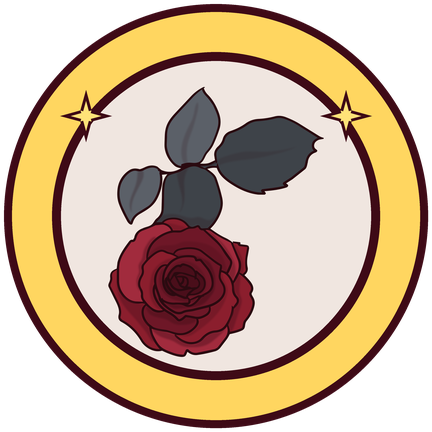
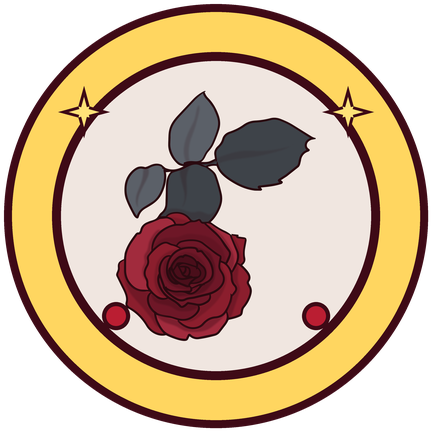
Added sub badges

diff --git a/index.html b/index.html
@@ -7279,14 +7279,14 @@
       <a class="proj-btn" href="images/twitch-large/Badges/3month_72.png?v=90453e1d" target="_blank" rel="noopener" title="Twitch subscriber badge: 3 month">3 month</a>
       <a class="proj-btn" href="images/twitch-large/Badges/6month_72.png?v=a659d23a" target="_blank" rel="noopener" title="Twitch subscriber badge: 6 month">6 month</a>
       <a class="proj-btn" href="images/twitch-large/Badges/9month_72.png?v=4efb4e4f" target="_blank" rel="noopener" title="Twitch subscriber badge: 9 month">9 month</a>
-      <a class="proj-btn" href="images/twitch-large/Badges/1year_72.png?v=2de9e34e" target="_blank" rel="noopener" title="Twitch subscriber badge: 1 year">1 year</a>
-      <a class="proj-btn" href="images/twitch-large/Badges/1_5year_72.png?v=710c4e77" target="_blank" rel="noopener" title="Twitch subscriber badge: 1.5 year">1.5 year</a>
-      <a class="proj-btn" href="images/twitch-large/Badges/2year_72.png?v=8b18ea16" target="_blank" rel="noopener" title="Twitch subscriber badge: 2 year">2 year</a>
-      <a class="proj-btn" href="images/twitch-large/Badges/2_5year_72.png?v=7e517fcf" target="_blank" rel="noopener" title="Twitch subscriber badge: 2.5 year">2.5 year</a>
-      <a class="proj-btn" href="images/twitch-large/Badges/3year_72.png?v=7e517fcf" target="_blank" rel="noopener" title="Twitch subscriber badge: 3 year">3 year</a>
-      <a class="proj-btn" href="images/twitch-large/Badges/3_5year_72.png?v=4bd7d765" target="_blank" rel="noopener" title="Twitch subscriber badge: 3.5 year">3.5 year</a>
-      <a class="proj-btn" href="images/twitch-large/Badges/4year_72.png?v=39db344e" target="_blank" rel="noopener" title="Twitch subscriber badge: 4 year">4 year</a>
-      <a class="proj-btn" href="images/twitch-large/Badges/4_5year_72.png?v=39db344e" target="_blank" rel="noopener" title="Twitch subscriber badge: 4.5 year">4.5 year</a>
+      <a class="proj-btn" href="images/twitch-large/Badges/1year_72.png?v=3b2a9f79" target="_blank" rel="noopener" title="Twitch subscriber badge: 1 year">1 year</a>
+      <a class="proj-btn" href="images/twitch-large/Badges/1_5year_72.png?v=783e5558" target="_blank" rel="noopener" title="Twitch subscriber badge: 1.5 year">1.5 year</a>
+      <a class="proj-btn" href="images/twitch-large/Badges/2year_72.png?v=5f1e709b" target="_blank" rel="noopener" title="Twitch subscriber badge: 2 year">2 year</a>
+      <a class="proj-btn" href="images/twitch-large/Badges/2_5year_72.png?v=601a190e" target="_blank" rel="noopener" title="Twitch subscriber badge: 2.5 year">2.5 year</a>
+      <a class="proj-btn" href="images/twitch-large/Badges/3year_72.png?v=49b10e52" target="_blank" rel="noopener" title="Twitch subscriber badge: 3 year">3 year</a>
+      <a class="proj-btn" href="images/twitch-large/Badges/3_5year_72.png?v=6ee8eb07" target="_blank" rel="noopener" title="Twitch subscriber badge: 3.5 year">3.5 year</a>
+      <a class="proj-btn" href="images/twitch-large/Badges/4year_72.png?v=146f831a" target="_blank" rel="noopener" title="Twitch subscriber badge: 4 year">4 year</a>
+      <a class="proj-btn" href="images/twitch-large/Badges/4_5year_72.png?v=e78dad4b" target="_blank" rel="noopener" title="Twitch subscriber badge: 4.5 year">4.5 year</a>
       <a class="proj-btn" href="images/twitch/Floral/Badges/1year_432.png?v=3aa7a4ef" target="_blank" rel="noopener" title="Twitch subscriber badge: Floral 1 year">Floral 1 year</a>
       <a class="proj-btn" href="images/twitch/Floral/Badges/2year_432.png?v=bce54367" target="_blank" rel="noopener" title="Twitch subscriber badge: Floral 2 year">Floral 2 year</a>
       <a class="proj-btn" href="images/twitch/Floral/Badges/3month_432.png?v=08fdd9d3" target="_blank" rel="noopener" title="Twitch subscriber badge: Floral 3 month">Floral 3 month</a>

diff --git a/tools/make_rose.py b/tools/make_rose.py
@@ -157,9 +157,14 @@ def rose(d, S, cx, cy, r, layers=5, leaves=True, pal=None):
     h = 2.5 * r * S if leaves else 2.0 * r * S
     k = h / im.height
     img = im.resize((max(1, round(im.width * k)), max(1, round(im.height * k))), Image.LANCZOS)
-    if pal is not None:   # gold variant for the highest badge
-        tint = Image.new("RGBA", img.size, (255, 214, 96, 255))
-        img = Image.blend(img.convert("RGB"), tint.convert("RGB"), 0.0).convert("RGBA") if False else img
+    if pal is not None:   # gold variant for the highest badge: shift the red hue to gold, grey leaves stay grey
+        hsv = img.convert("RGB").convert("HSV")
+        hh, ss, vv = hsv.split()
+        hh = hh.point(lambda v: (v + 34) % 256 if v < 40 or v > 235 else v)
+        vv = vv.point(lambda v: min(255, int(v * 1.35 + 25)))
+        img = Image.merge("HSV", (hh, ss, vv)).convert("RGB").convert("RGBA")
+        img.putalpha(im.split()[3].resize(img.size))
+
     d._image.alpha_composite(img, (int(cx * S - img.width / 2), int(cy * S - img.height / 2)))
 
 
@@ -204,8 +209,8 @@ def badge(tier, size=432):
         d.ellipse((12 * S, 12 * S, (size - 12) * S, (size - 12) * S), fill=ring_col + (255,))
         d.ellipse((52 * S, 52 * S, (size - 52) * S, (size - 52) * S), fill=INK + (255,))
         d.ellipse((61 * S, 61 * S, (size - 61) * S, (size - 61) * S), fill=(240, 230, 224, 255))
-        if idx >= 8:  # ring dots
-            n = 24
+        if idx >= 8:  # ring dots: more of them on every higher tier
+            n = {8: 12, 9: 16, 10: 20, 11: 24, 12: 30}[idx]
             for i in range(n):
                 a = 2 * math.pi * i / n
                 berry_dot(d, S, c + math.cos(a) * (size / 2 - 32 * k), c + math.sin(a) * (size / 2 - 32 * k), 8 * k)
@@ -227,18 +232,34 @@ def badge(tier, size=432):
             stem(d, S, c, c + 118 * k, c + 6 * k, 9 * k, ls=1.0 * k)
             tulip(d, S, c, c - 6 * k, 96 * k)
         else:
-            if name in ("1_5year",):
-                berry_dot(d, S, c - 108 * k, c + 100 * k, 14 * k); berry_dot(d, S, c + 108 * k, c + 100 * k, 14 * k)
-            r_ = 108 * k
-            if name == "4_5year":
-                rose(d, S, c, c + 6 * k, r_, layers=4, pal=((252, 226, 130), (176, 120, 20)))
-            else:
-                rose(d, S, c, c + 6 * k, r_, layers=4 if idx >= 6 else 3)
-            if name in ("2year", "4year", "4_5year"):
-                sparkle(d, S, c - 130 * k, c - 100 * k, 26 * k); sparkle(d, S, c + 130 * k, c - 100 * k, 26 * k)
-            if name in ("3_5year", "4year", "4_5year"):
-                pts = [(c - 56 * k, c - 118 * k), (c - 56 * k, c - 160 * k), (c - 28 * k, c - 138 * k), (c, c - 172 * k), (c + 28 * k, c - 138 * k), (c + 56 * k, c - 160 * k), (c + 56 * k, c - 118 * k)]
+            r_ = 100 * k
+            ry = c + (10 * k if idx >= 10 else 0)
+            # the rose itself is the same drawing on every year; everything around it grows with the tier
+            if idx >= 11:   # 4 years and up: a red band inside the gold ring
+                d.ellipse((24 * S, 24 * S, (size - 24) * S, (size - 24) * S), outline=RED + (255,), width=int(8 * S * k))
+            rose(d, S, c, ry, r_, layers=4, pal=(1, 2) if idx == 12 else None)
+            if idx >= 6:    # 1.5 years: two berries at the bottom
+                berry_dot(d, S, c - 100 * k, c + 100 * k, 14 * k)
+                berry_dot(d, S, c + 100 * k, c + 100 * k, 14 * k)
+            if idx >= 7:    # 2 years: two sparkles at the top
+                sparkle(d, S, c - 132 * k, c - 104 * k, 26 * k)
+                sparkle(d, S, c + 132 * k, c - 104 * k, 26 * k)
+            if idx >= 9:    # 3 years: a leaf wreath at the bottom
+                for sx in (-1, 1):
+                    for j, ang in enumerate((-35, -10)):
+                        a_ = math.radians(180 + ang if sx < 0 else -ang)
+                        leaf(d, S, c + sx * (60 + 34 * j) * k, c + (138 - 6 * j) * k, 54 * k, 14 * k, a_, fill=SLATE, lw=5)
+            if idx >= 10:   # 3.5 years: a crown (bigger from 4 years)
+                cs = 1.0 if idx == 10 else 1.35
+                pts = [(c - 52 * cs * k, c - 112 * k), (c - 52 * cs * k, c - 112 * k - 40 * cs * k), (c - 26 * cs * k, c - 112 * k - 20 * cs * k), (c, c - 112 * k - 52 * cs * k),
+                       (c + 26 * cs * k, c - 112 * k - 20 * cs * k), (c + 52 * cs * k, c - 112 * k - 40 * cs * k), (c + 52 * cs * k, c - 112 * k)]
                 d.polygon([(x * S, y * S) for x, y in pts], fill=(255, 208, 90, 255), outline=INK + (255,), width=int(6 * S * k))
+                if idx >= 12:   # 4.5 years: ruby gems on the crown
+                    for gx in (-26, 0, 26):
+                        berry_dot(d, S, c + gx * cs * k, c - 112 * k - 12 * cs * k, 7 * k)
+            if idx >= 11:   # 4 years: two more sparkles lower down
+                sparkle(d, S, c - 148 * k, c + 40 * k, 20 * k)
+                sparkle(d, S, c + 148 * k, c + 40 * k, 20 * k)
     return layer((size, size), fn)
 
 
